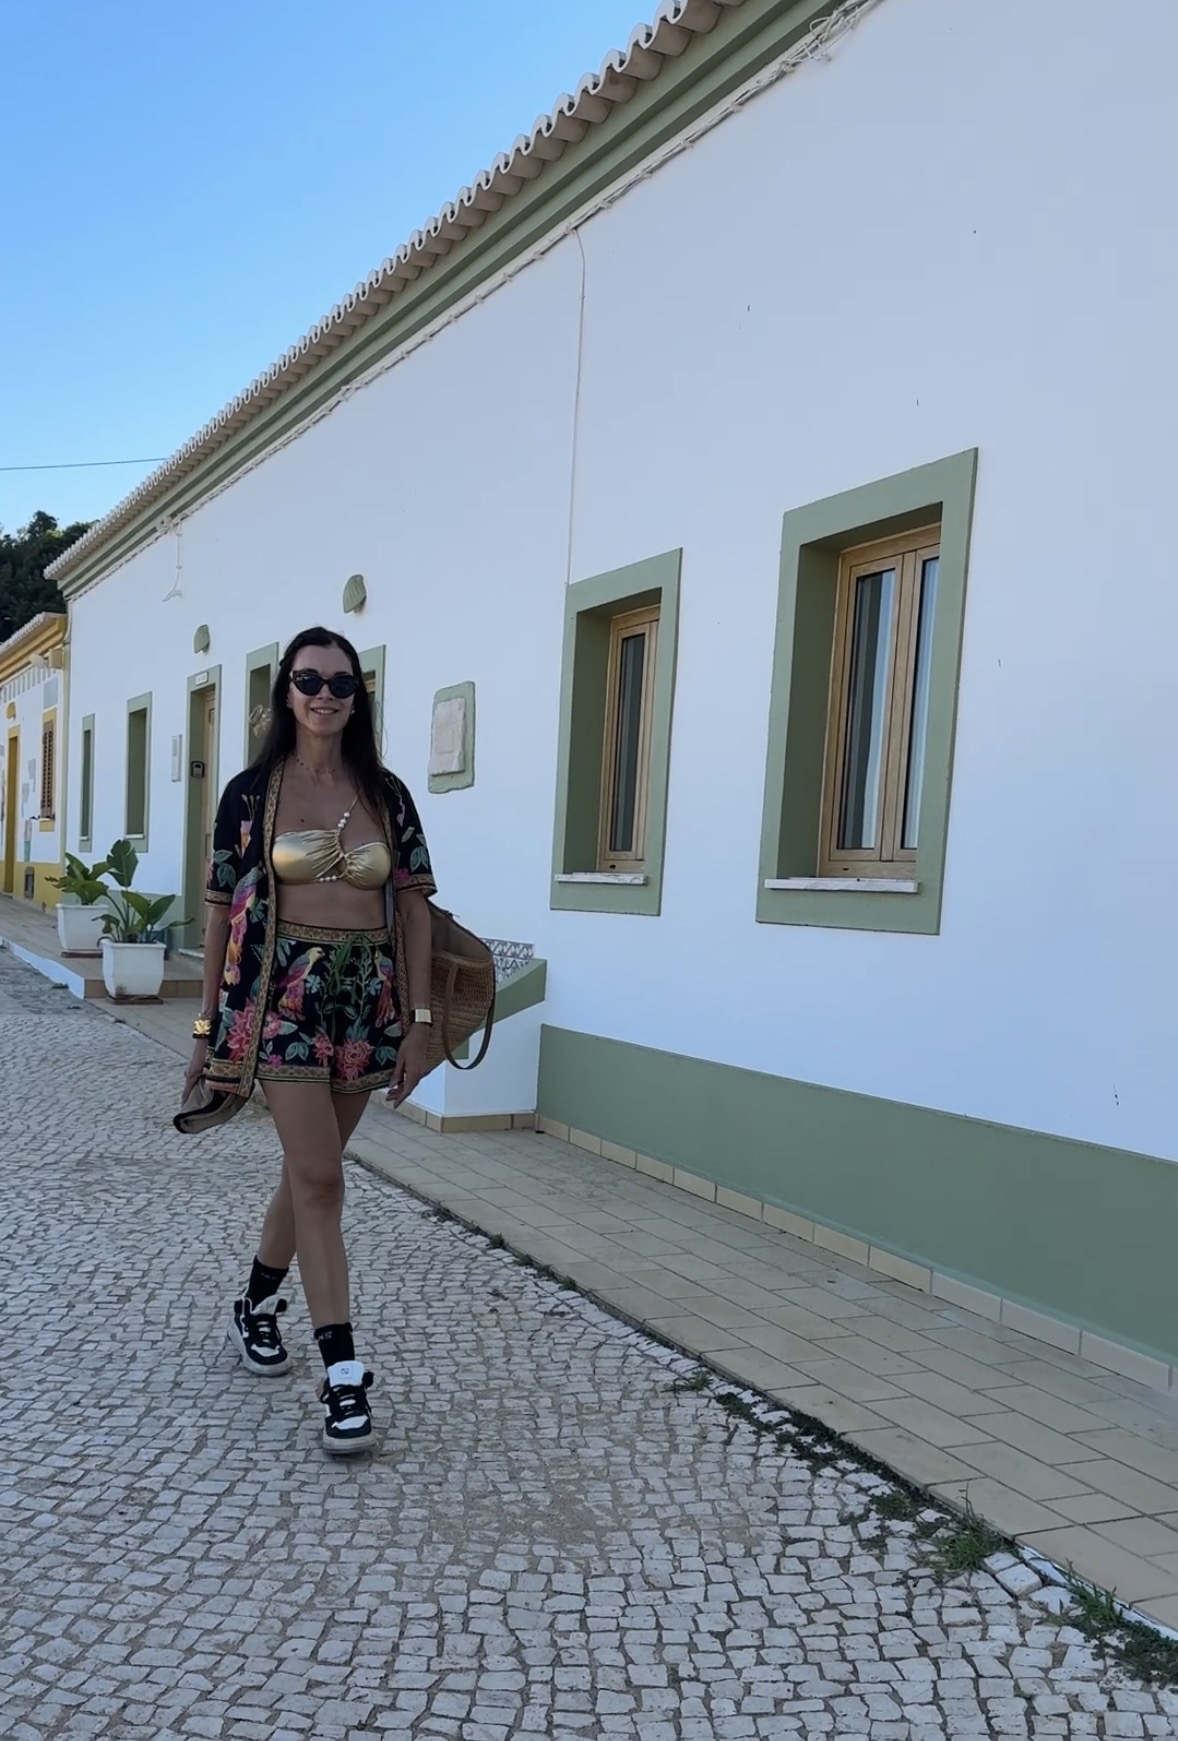
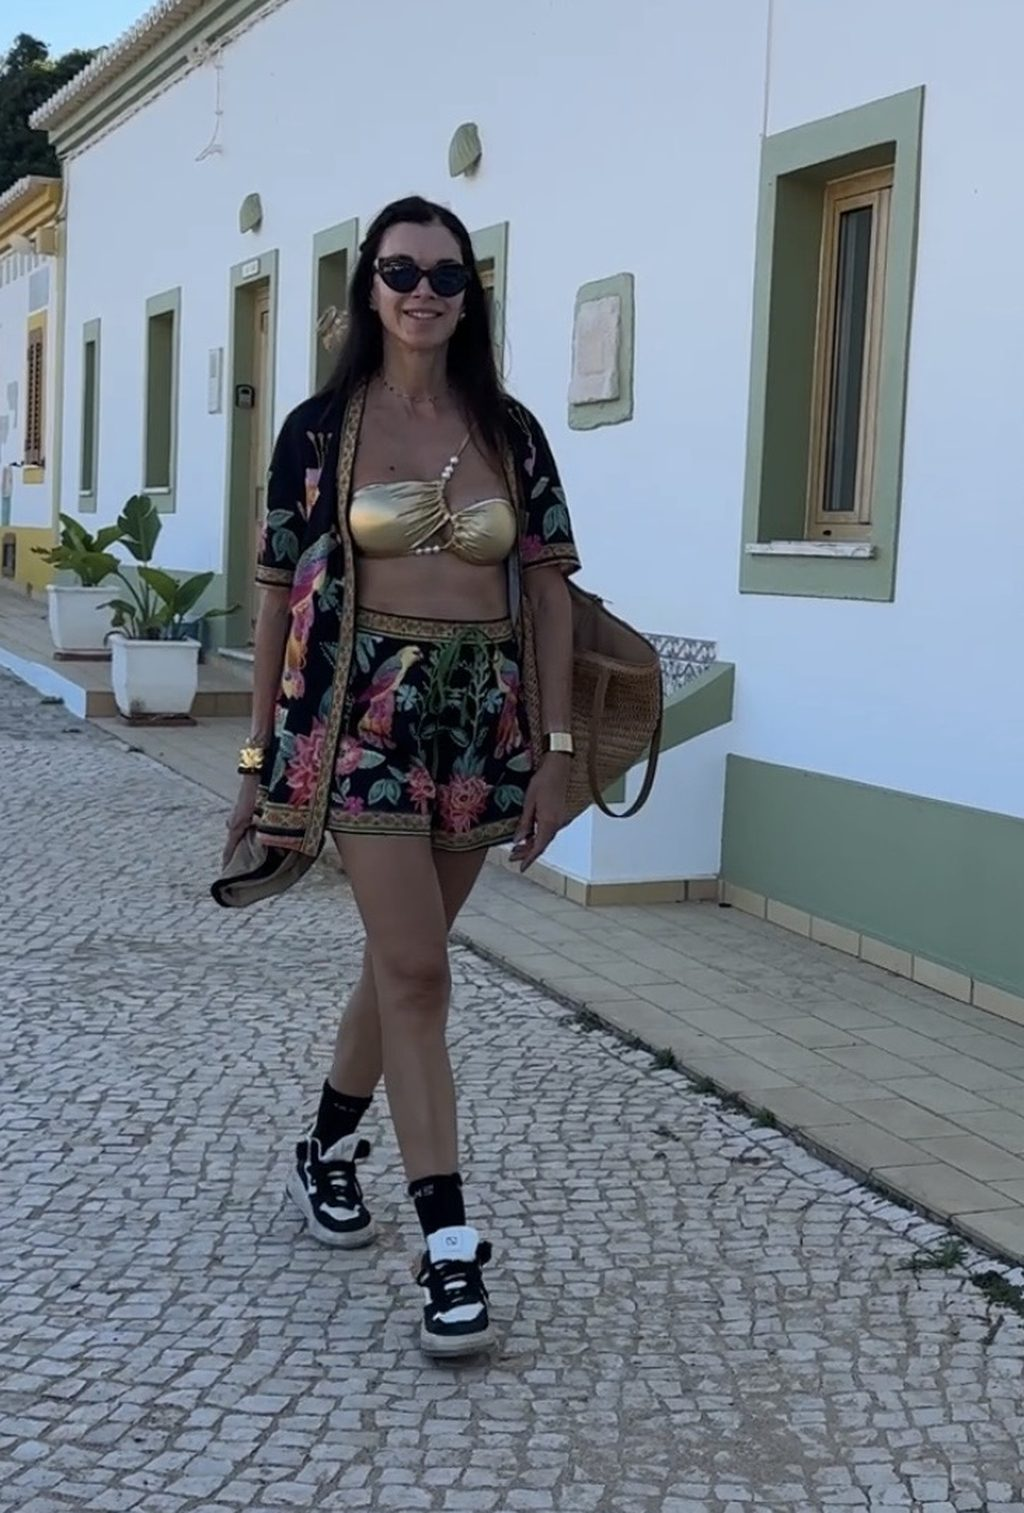
Photo zoomee et allegee, et le perimetre de la tache mensuelle recadre
1. PHOTO. Virginie : « tu vas un peu la zoomer pour qu'on me voit mieux ».
Recadrage physique de la source autour d'elle (62 % de la largeur, cale a
gauche, depart a 28 % de la hauteur pour sortir du ciel), meme ratio conserve
pour que le gabarit se comporte pareil, puis remontee a 1024 px de large comme
les 3 autres couvertures du blog. Cadrage vertical repris de 46 % a 12 %, le
reglage precedent etait cale sur l'ancienne photo et coupait son visage.
Trois valeurs rendues et regardees avant de trancher.

2. POIDS. Virginie : « je ne suis pas sure que tu le fais d'office comme tu
devrais le faire. » Elle a raison, je ne le faisais pas. Mesure du jour :
la photo est servie en 110 Ko webp par le CDN, contre 51 Ko pour glycemie,
135 pour shbg et 170 pour estrobolome. Source ramenee de 388 a 199 Ko en JPEG
progressif qualite 82 : la qualite source ne change PAS le poids servi (107 Ko
identiques a 88, 82 et 78) puisque le CDN reencode, mais elle allege le depot.
Vignette de partage regeneree, 98 Ko.
Regle inscrite dans le SKILL : recadrer, 1024 px, qualite 82, MESURER le webp,
rester sous 150 Ko.

3. PERIMETRE. Virginie : « pour tout ce qui est correction du site internet, ce
n'est pas toi qui t'en charges. Toi, tu es juste la pour publier l'article de
blog mensuel. » Applique dans le SKILL de la tache mensuelle : l'ETAPE 3, qui
lancait 4 agents d'audit du site, est SUPPRIMEE. L'ETAPE 5 ne couvre plus que
[…]

diff --git a/blog/melasma-traitement-hormonal-menopause.html b/blog/melasma-traitement-hormonal-menopause.html
@@ -142,7 +142,7 @@
       width: 100%;
       height: 100%;
       object-fit: cover;
-      object-position: 50% 46%;
+      object-position: 50% 12%;
       display: block;
       opacity: 0.82;
     }
